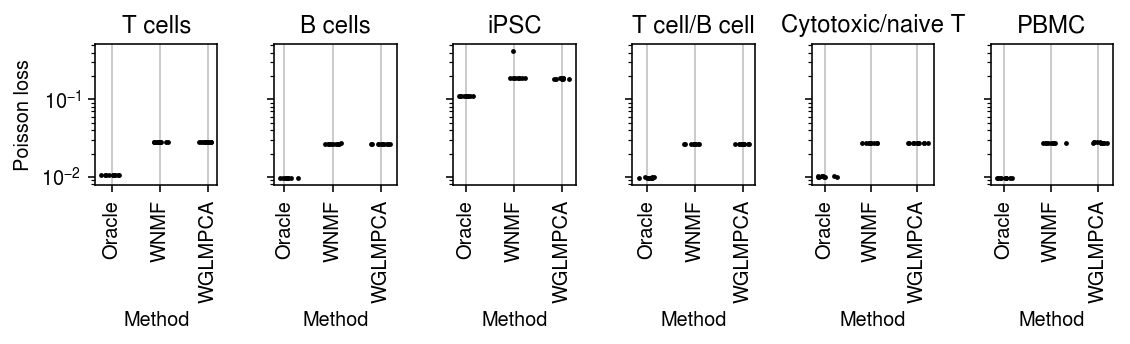
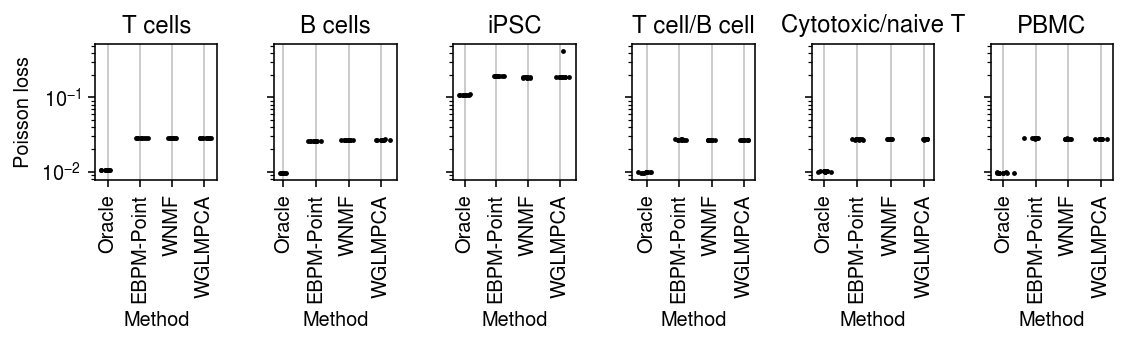
Look at mean imputation in imputation benchmark

diff --git a/docs/imputation.html b/docs/imputation.html
@@ -1,7 +1,7 @@
 <!DOCTYPE html>
 <html lang="en">
 <head>
-<!-- 2019-12-02 Mon 13:55 -->
+<!-- 2019-12-02 Mon 21:27 -->
 <meta charset="utf-8">
 <meta name="viewport" content="width=device-width, initial-scale=1">
 <title>Imputation of count matrices</title>
@@ -291,7 +291,7 @@ multi-gene model for scRNA-seq data: \(
   \newcommand\vw{\mathbf{w}}
   \newcommand\vz{\mathbf{z}}
   \newcommand\mx{\mathbf{X}}
-  \newcommand\mu{\mathbf{U}}
+  \newcommand\mU{\mathbf{U}}
   \newcommand\mw{\mathbf{W}}
   \newcommand\mz{\mathbf{Z}}
   \newcommand\ml{\mathbf{L}}
@@ -452,7 +452,7 @@ Negative Binomial Matrix Factorization (NBMF; Gouvert et al 2018) is the
 <p>
 Gouvert et al. 2018 only consider the case \(\phi_{ij} = \phi\); however,
 other natural choices are \(\phi_{ij} = \phi_j\) and \(\phi_{ij} = \phi_i +
-   \phi_j\). To derive an EM algorithm, first note that \(p(\mz \mid \mx, \mu,
+   \phi_j\). To derive an EM algorithm, first note that \(p(\mz \mid \mx, \mU,
    \ml, \mf) = p(\mz \mid \mx, \ml, \mf)\). Further,
 </p>
 
@@ -468,7 +468,7 @@ The expected log joint
 </p>
 
 \begin{multline*}
-  \E{\ln p(\mx, \mz, \mu \mid \ml, \mf)} = \sum_{i, j, k} [\E{z_{ijk}}(\E{\ln u_{ij}} + \ln (l_{ik} f_{jk})) - l_{ik} f_{jk} \E{u_{ij}} - \ln\Gamma(x_{ij} + 1)]\\
+  \E{\ln p(\mx, \mz, \mU \mid \ml, \mf)} = \sum_{i, j, k} [\E{z_{ijk}}(\E{\ln u_{ij}} + \ln (l_{ik} f_{jk})) - l_{ik} f_{jk} \E{u_{ij}} - \ln\Gamma(x_{ij} + 1)]\\
   + \sum_{i, j} [(1 / \phi_{ij}) \ln(1 / \phi_{ij}) + (\E{u_{ij}} - 1) \ln(1 / \phi_{ij}) - \E{u_{ij}}  /  \phi_{ij} - \ln\Gamma(1 / \phi_{ij})]
 \end{multline*}
 
@@ -631,6 +631,25 @@ cytotoxic_t-b_cells       1000       6647
 cytotoxic_t-naive_t       1000       6246
 pbmcs_68k                 1000       6502
 </pre>
+
+<p>
+Report the proportion of zeros.
+</p>
+
+<div class="org-src-container">
+<pre class="src src-ipython">pd.Series({k: (data[k]() == 0).values.mean() <span class="org-keyword">for</span> k <span class="org-keyword">in</span> data})
+</pre>
+</div>
+
+<pre class="example">
+cytotoxic_t            0.914572
+b_cells                0.921772
+ipsc                   0.291596
+cytotoxic_t-b_cells    0.920908
+cytotoxic_t-naive_t    0.917528
+pbmcs_68k              0.920052
+dtype: float64
+</pre>
 </div>
 </div>
 </div>
@@ -643,7 +662,7 @@ pbmcs_68k                 1000       6502
 <h3 id="org92221a4">Imputation benchmark</h3>
 <div class="outline-text-3" id="text-org92221a4">
 <div class="org-src-container">
-<pre class="src src-sh">sbatch --partition=broadwl -n1 -c28 --exclusive --time=12:00:00 --job-name=imputation-benchmark -a 10
+<pre class="src src-sh">sbatch --partition=broadwl -n1 -c28 --exclusive --time=12:00:00 --job-name=imputation-benchmark -a 0-5
 <span class="org-comment-delimiter">#</span><span class="org-comment">!/bin/bash</span>
 <span class="org-builtin">source</span> activate scmodes
 python &lt;&lt;EOF
@@ -651,7 +670,7 @@ python &lt;&lt;EOF
 import os
 import sys
 &lt;&lt;data&gt;&gt;
-<span class="org-sh-heredoc">tasks = [(k, m) for k in data for m in ('oracle', 'wnmf', 'wglmpca')]</span>
+<span class="org-sh-heredoc">tasks = [(k, m) for k in data for m in ('ebpm_point',)]</span>
 <span class="org-sh-heredoc">d, m = tasks[int(os.environ['SLURM_ARRAY_TASK_ID'])]</span>
 <span class="org-sh-heredoc">x = data[d]()</span>
 <span class="org-sh-heredoc">res = scmodes.benchmark.evaluate_imputation(x.values, methods=[m], n_trials=10, max_retries=3)</span>
@@ -674,7 +693,7 @@ Read the results.
 </p>
 
 <div class="org-src-container">
-<pre class="src src-ipython"><span class="org-variable-name">methods</span> = [<span class="org-string">'oracle'</span>, <span class="org-string">'wnmf'</span>, <span class="org-string">'wglmpca'</span>]
+<pre class="src src-ipython"><span class="org-variable-name">methods</span> = [<span class="org-string">'oracle'</span>, <span class="org-string">'ebpm_point'</span>, <span class="org-string">'wnmf'</span>, <span class="org-string">'wglmpca'</span>]
 <span class="org-variable-name">imputation_res</span> = (pd.concat({(d, m): pd.read_csv(f<span class="org-string">'/project2/mstephens/aksarkar/projects/singlecell-modes/data/imputation/{d}-{m}.txt.gz'</span>, sep=<span class="org-string">'\t'</span>, index_col=0)
                             <span class="org-keyword">for</span> d <span class="org-keyword">in</span> data <span class="org-keyword">for</span> m <span class="org-keyword">in</span> methods})
                   .reset_index(level=0)
@@ -688,18 +707,20 @@ Plot the results.
 </p>
 
 <div class="org-src-container">
-<pre class="src src-ipython">plt.clf()
+<pre class="src src-ipython"><span class="org-variable-name">labels</span> = [<span class="org-string">'Oracle'</span>, <span class="org-string">'EBPM-Point'</span>, <span class="org-string">'WNMF'</span>, <span class="org-string">'WGLMPCA'</span>]
+plt.clf()
 <span class="org-variable-name">fig</span>, <span class="org-variable-name">ax</span> = plt.subplots(1, <span class="org-builtin">len</span>(data), sharey=<span class="org-constant">True</span>)
 fig.set_size_inches(8, 2.5)
 <span class="org-keyword">for</span> a, d, t <span class="org-keyword">in</span> <span class="org-builtin">zip</span>(ax, data, [<span class="org-string">'T cells'</span>, <span class="org-string">'B cells'</span>, <span class="org-string">'iPSC'</span>, <span class="org-string">'T cell/B cell'</span>, <span class="org-string">'Cytotoxic/naive T'</span>, <span class="org-string">'PBMC'</span>]):
   <span class="org-variable-name">g</span> = imputation_res[imputation_res[<span class="org-string">'dataset'</span>] == d]
   a.set_yscale(<span class="org-string">'log'</span>)
-  <span class="org-keyword">for</span> x, (_, y) <span class="org-keyword">in</span> <span class="org-builtin">enumerate</span>(g.groupby(<span class="org-string">'method'</span>)):
+  <span class="org-keyword">for</span> x, (m, k) <span class="org-keyword">in</span> <span class="org-builtin">enumerate</span>(<span class="org-builtin">zip</span>(methods, labels)):
+    <span class="org-variable-name">y</span> = g.loc[g[<span class="org-string">'method'</span>] == m]
     a.scatter(x + np.random.normal(size=y.shape[0], scale=0.1), y[<span class="org-string">'loss'</span>], s=2, c=<span class="org-string">'k'</span>, zorder=4)
   a.set_title(t)
   a.grid(c=<span class="org-string">'0.8'</span>, lw=1, axis=<span class="org-string">'x'</span>)
-  a.set_xticks(np.arange(3))
-  a.set_xticklabels([<span class="org-string">'Oracle'</span>, <span class="org-string">'WNMF'</span>, <span class="org-string">'WGLMPCA'</span>], rotation=90)
+  a.set_xticks(np.arange(4))
+  a.set_xticklabels(labels, rotation=90)
   a.set_xlabel(<span class="org-string">'Method'</span>)
 ax[0].set_ylabel(<span class="org-string">'Poisson loss'</span>)
 fig.tight_layout()
@@ -717,7 +738,7 @@ fig.tight_layout()
 </div>
 <div id="postamble" class="status">
 <p class="author">Author: Abhishek Sarkar</p>
-<p class="date">Created: 2019-12-02 Mon 13:55</p>
+<p class="date">Created: 2019-12-02 Mon 21:27</p>
 <p class="validation"><a href="http://validator.w3.org/check?uri=referer">Validate</a></p>
 </div>
 </body>
